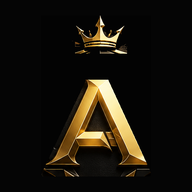
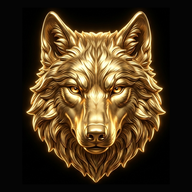
**Lobo dourado como novo símbolo da marca** — complete - Gerei com IA um lobo poderoso em ouro metálico, somente o rosto, com acabamento de joalheria de luxo — forte, simétrico e imponente, combinando 100% com a identidade preto e dourado da Alfa - O lobo agora é o símbolo oficial: abertura cinemato

diff --git a/frontend/src/components/site/Splash.jsx b/frontend/src/components/site/Splash.jsx
@@ -19,9 +19,9 @@ export default function Splash({ done }) {
             transition={{ duration: 1, ease }}
           >
             <img
-              src="/logo-a-clean.png"
+              src="/logo-wolf.png"
               alt="Alfa Blindagem Premium"
-              className="mix-blend-screen w-36 object-contain sm:w-44"
+              className="mix-blend-screen w-40 object-contain sm:w-48"
             />
           </motion.div>
           <div className="mt-8 overflow-hidden">

diff --git a/frontend/src/components/Logo.jsx b/frontend/src/components/Logo.jsx
@@ -1,7 +1,7 @@
 export default function Logo({ size = 40, className = "" }) {
   return (
     <img
-      src="/logo-a-clean.png"
+      src="/logo-wolf.png"
       alt="Alfa Blindagem Premium"
       width={size}
       height={size}

diff --git a/memory/PRD.md b/memory/PRD.md
@@ -35,6 +35,7 @@ Web app premium/luxo (preto + dourado) para empresa de blindagem de eletrônicos
 - Atualização (pacote de melhorias): upload de fotos reais no painel (object storage Emergent: POST /api/admin/gallery/upload com JWT, arquivos servidos em /api/files/{path}, soft-delete via db.files); status dos orçamentos (novo/contatado/fechado, PUT /api/admin/leads/{id}, pills coloridas no painel); blindagem de câmera avulsa R$80 (prices.camera, calculadora, detalhe do celular, campo no admin); aviso de tela trincada também na calculadora; selo "50x mais resistente" no hero e na descrição do celular. EMERGENT_LLM_KEY adicionada ao backend/.env para o storage.
 - Atualização (rebrand + agendamento): marca agora "ALFA BLINDAGEM PREMIUM" com logo oficial do cliente (escudo dourado com coroa) em /public/logo-full.png (splash) e logo-shield.png (navbar, recorte); ícones PWA png 192/512. Mensagens de WhatsApp atualizadas com o novo nome. Agendamento opcional nas páginas de detalhes (data + turno manhã 08-11 / tarde 14-19) embutido na mensagem de WhatsApp. Área de atendimento: São Ludgero, Orleans e Braço do Norte (contato, footer, detalhes).
 - Atualização (logo sem borda): a pedido do cliente, o escudo foi removido do logo — /public/logo-a-clean.png contém apenas a letra A dourada com coroa (limpeza via máscara PIL, fundo some com mix-blend-screen). Usado no navbar, splash (com textos ALFA / BLINDAGEM PREMIUM), footer, admin e ícones PWA regenerados.
+- Atualização (logo lobo): a pedido do cliente, o símbolo passou a ser um lobo dourado poderoso (somente o rosto), gerado por IA (Gemini image via emergentintegrations) — /public/logo-wolf.png, aplicado no navbar, splash, footer, admin e ícones PWA.
 
 ## Verificado
 - API: login/me/leads/settings PUT/serviços/galeria/reviews/promos + 401 sem token e senha errada.
